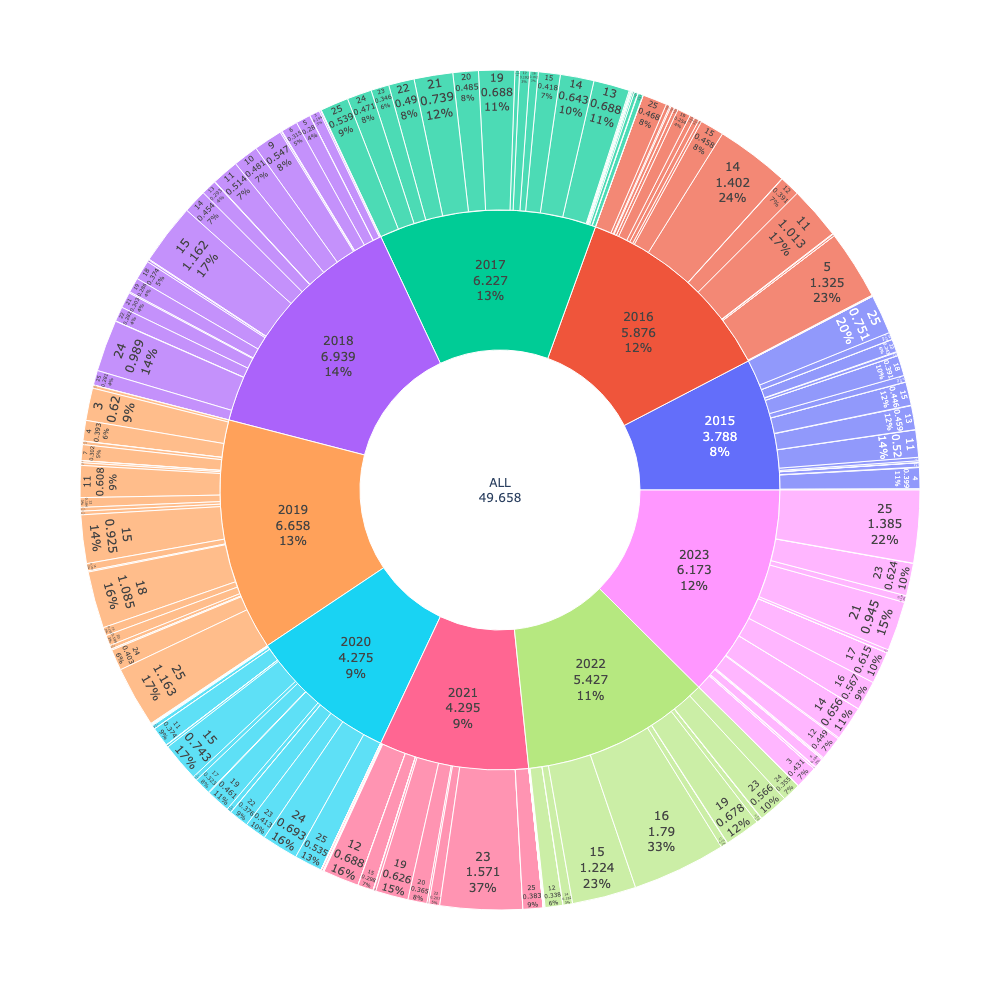
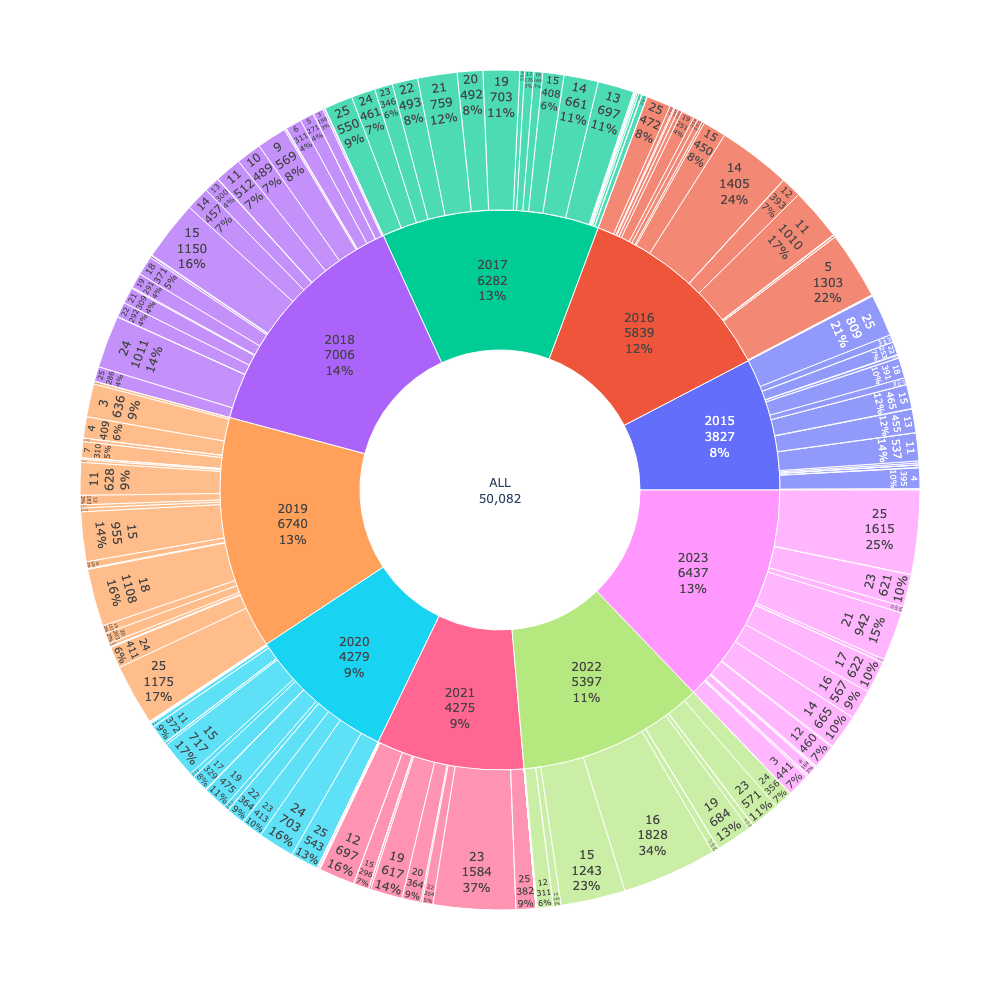
Run randomized days multiple times, so far just 2023/25. Use milliseconds for graphs and output.

diff --git a/scripts/command/run.py b/scripts/command/run.py
@@ -16,6 +16,7 @@ from pojo.runtime_info import RuntimeInfo
 class LanguageRunner:
     day: Day
     name: str
+    times: int
     command: list[str]
 
     def as_dict(self) -> dict:
@@ -23,21 +24,26 @@ class LanguageRunner:
             year=self.day.year,
             day=self.day.day,
             name=self.name,
+            times=self.times,
             command=" ".join(self.command),
         )
 
     def execute(self) -> RuntimeInfo:
-        print(f"Running year {self.day.year} day {self.day.day} with {self.name}")
-        result = execute(self.command)
-        runtime = LanguageRunner.__parse_runtime_seconds(result)
-        return RuntimeInfo(self.day, self.name, runtime)
+        message = (
+            f"Running {self.day.year}/{self.day.day}"
+            f" {self.times} times with {self.name}"
+        )
+        print(message)
+        runtimes = [LanguageRunner.__execute(self.command) for _ in range(self.times)]
+        return RuntimeInfo(self.day, self.name, sum(runtimes) / self.times)
 
     @staticmethod
-    def __parse_runtime_seconds(result: str) -> float:
+    def __execute(command: list[str]) -> float:
+        result = execute(command)
         matches: list[str] = re.findall(r".*Runtime \(ns\): (\d*)", result)
         assert len(matches) == 1, "Could not find runtime in output"
         runtime_ns = float(matches[0])
-        return runtime_ns / 1_000_000_000
+        return runtime_ns / 1_000_000
 
 
 @dataclass(frozen=True)
@@ -83,9 +89,13 @@ class Runner(Command):
         result: list[LanguageRunner] = []
         for day in self.days:
             for language in self.language_strategy.get(day):
+                # 2023/25 is written in a randomized implementation
+                # Average of multiple runs is more representative
+                times = 10 if day == Day("2023", "25") else 1
                 runner = LanguageRunner(
                     day=day,
                     name=language.name,
+                    times=times,
                     command=language.run_command(day, self.run_args),
                 )
                 result.append(runner)

diff --git a/scripts/component/display_runtimes.py b/scripts/component/display_runtimes.py
@@ -7,7 +7,7 @@ from pojo.runtime_info import RuntimeInfo
 class Displayer:
     def display(self, label: str, runtimes: list[RuntimeInfo]) -> None:
         if len(runtimes) == 0:
-            print("{}: NONE".format(label))
+            print(f"{label}: NONE")
             return
         print(label)
         df = pd.DataFrame([runtime.as_dict() for runtime in runtimes])
@@ -23,9 +23,9 @@ class Displayer:
     @staticmethod
     def _get_color(row) -> str:
         color_predicates = {
-            "white": lambda x: 0 <= x < 0.5,
-            "yellow": lambda x: 0.5 <= x < 10,
-            "red": lambda x: 10 <= x,
+            "green": lambda x: 0 <= x < 500,
+            "yellow": lambda x: 500 <= x < 1_000,
+            "red": lambda x: 1_000 <= x,
         }
         for color, predicate in color_predicates.items():
             if predicate(row["runtime"]):

diff --git a/scripts/advent.py b/scripts/advent.py
@@ -43,7 +43,7 @@ def setup(language: tuple[Language, ...], info: bool) -> None:
 @click.option("-y", "--year", type=int, multiple=True)
 @click.option("-d", "--day", type=int, multiple=True)
 @click.option("-l", "--language", type=LanguageType(), multiple=True)
-@click.option("-s", "--slow", type=int, default=1)
+@click.option("-s", "--slow", type=int, default=1_000)
 @click.option("-i", "--info", is_flag=True)
 @click.option("-T", "--test", is_flag=True)
 def run(

diff --git a/scripts/command/graph.py b/scripts/command/graph.py
@@ -37,7 +37,7 @@ class Grapher(Command):
             saver.archive_directory.mkdir(parents=True, exist_ok=False)
 
         runtimes["all"] = "ALL"
-        runtimes["runtime"] = runtimes["runtime"].round(3)
+        runtimes["runtime"] = runtimes["runtime"].round(0)
         self.__create_graphs(runtimes, saver)
 
     def __figure_saver(self) -> FigureSaver:
